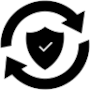
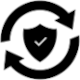
repaired flickering of screen on update

diff --git a/e_paper_utils.py b/e_paper_utils.py
@@ -7,6 +7,7 @@ import subprocess
 from PIL import Image, ImageFont
 _picdir = os.path.join(os.path.dirname(os.path.realpath(__file__)), 'pic')
 
+from string import Formatter
 import datetime
 import socket
 import urllib.request
@@ -18,6 +19,7 @@ def init_fonts(police: str = 'Font.ttc'):
 	fontSet = {}
 	fontSet['9'] = ImageFont.truetype(os.path.join(_picdir, police), 9)
 	fontSet['11'] = ImageFont.truetype(os.path.join(_picdir, police), 11)
+	fontSet['12'] = ImageFont.truetype(os.path.join(_picdir, police), 12)
 	fontSet['14'] = ImageFont.truetype(os.path.join(_picdir, police), 14)
 	fontSet['16'] = ImageFont.truetype(os.path.join(_picdir, police), 16)
 	fontSet['18'] = ImageFont.truetype(os.path.join(_picdir, police), 18)
@@ -40,7 +42,7 @@ def init_icon_set():
 	iconSet['cpu'] = Image.open(os.path.join(_picdir, 'cpu.png'))
 	iconSet['memory'] = Image.open(os.path.join(_picdir, 'memory.png'))
 	iconSet['uptime'] = Image.open(os.path.join(_picdir, 'uptime.png'))
-	iconSet['security_updates'] = Image.open(os.path.join(_picdir, 'security-updates2.png'))
+	iconSet['security_updates'] = Image.open(os.path.join(_picdir, 'security-updates.png'))
 	iconSet['docker'] = Image.open(os.path.join(_picdir, 'docker.png'))
 	iconSet['battery_charging'] = Image.open(os.path.join(_picdir, 'battery-charging.png'))
 	iconSet['battery_charged'] = Image.open(os.path.join(_picdir, 'battery-charged.png'))
@@ -80,7 +82,10 @@ def get_external_ip():
 	return urllib.request.urlopen('https://ident.me').read().decode('utf8')
 
 def get_uptime():
-	return str(datetime.timedelta(seconds=int(float(open('/proc/uptime').read().split()[0]))))
+	uptime = int(float(open('/proc/uptime').read().split()[0]))
+	week_days = strfdelta(uptime, '{W}w {D}d', 's')
+	time = strfdelta(uptime, '{D}d {H}:{M:02}:{S:02}', 's').split(' ')[1]
+	return week_days, time
 
 def get_update_count():
 	upgrades = subprocess.run(['apt', 'list', '--upgradable'], stderr=subprocess.DEVNULL, stdout=subprocess.PIPE)
@@ -89,3 +94,50 @@ def get_update_count():
 def get_docker_containers_count():
 	docker_containers = docker.from_env().containers
 	return len(docker_containers.list(filters={'status':'running'}))
+
+def strfdelta(tdelta, fmt='{D:02}d {H:02}h {M:02}m {S:02}s', inputtype='timedelta'):
+    """Convert a datetime.timedelta object or a regular number to a custom-
+    formatted string, just like the stftime() method does for datetime.datetime
+    objects.
+
+    The fmt argument allows custom formatting to be specified.  Fields can 
+    include seconds, minutes, hours, days, and weeks.  Each field is optional.
+
+    Some examples:
+        '{D:02}d {H:02}h {M:02}m {S:02}s' --> '05d 08h 04m 02s' (default)
+        '{W}w {D}d {H}:{M:02}:{S:02}'     --> '4w 5d 8:04:02'
+        '{D:2}d {H:2}:{M:02}:{S:02}'      --> ' 5d  8:04:02'
+        '{H}h {S}s'                       --> '72h 800s'
+
+    The inputtype argument allows tdelta to be a regular number instead of the  
+    default, which is a datetime.timedelta object.  Valid inputtype strings: 
+        's', 'seconds', 
+        'm', 'minutes', 
+        'h', 'hours', 
+        'd', 'days', 
+        'w', 'weeks'
+    """
+
+    # Convert tdelta to integer seconds.
+    if inputtype == 'timedelta':
+        remainder = int(tdelta.total_seconds())
+    elif inputtype in ['s', 'seconds']:
+        remainder = int(tdelta)
+    elif inputtype in ['m', 'minutes']:
+        remainder = int(tdelta)*60
+    elif inputtype in ['h', 'hours']:
+        remainder = int(tdelta)*3600
+    elif inputtype in ['d', 'days']:
+        remainder = int(tdelta)*86400
+    elif inputtype in ['w', 'weeks']:
+        remainder = int(tdelta)*604800
+
+    f = Formatter()
+    desired_fields = [field_tuple[1] for field_tuple in f.parse(fmt)]
+    possible_fields = ('W', 'D', 'H', 'M', 'S')
+    constants = {'W': 604800, 'D': 86400, 'H': 3600, 'M': 60, 'S': 1}
+    values = {}
+    for field in possible_fields:
+        if field in desired_fields and field in constants:
+            values[field], remainder = divmod(remainder, constants[field])
+    return f.format(fmt, **values)

diff --git a/e-paper.py b/e-paper.py
@@ -36,11 +36,11 @@ def update_display(epd, image: Image, draw: ImageDraw, rr: RedReactor):
 	draw.line((240, 0, 240, 240), fill = 0)
 	draw.line((0, 90, 360, 90), fill = 0)
 	draw.line((120, 90, 120, 240), fill = 0)
-	image.paste(icons['home'], (10, 3))
-	draw.text((54, 12), get_interal_ip(), font = fonts['20'], fill = 0)
+	image.paste(icons['home'], (5, 3))
+	draw.text((50, 8), get_interal_ip(), font = fonts['26'], fill = 0)
 	
-	image.paste(icons['web'], (10, 48))
-	draw.text((54, 55), get_external_ip(), font = fonts['20'], fill = 0)
+	image.paste(icons['web'], (5, 45))
+	draw.text((50, 48), get_external_ip(), font = fonts['26'], fill = 0)
 
 	battery_icon = None
 	match rr.battery_status:
@@ -63,24 +63,26 @@ def update_display(epd, image: Image, draw: ImageDraw, rr: RedReactor):
 	charge = "{:4} %".format(rr.battery_charge)
 	draw.text((254, 50), charge, font = fonts['30'], fill = 0)
 
-	image.paste(icons['uptime'], (15, 95))
-	draw.text((50, 100), get_uptime(), font = fonts['18'], fill = 0)
+	image.paste(icons['uptime'], (5, 97))
+	wd, time = get_uptime()
+	draw.text((40, 93), wd, font = fonts['18'], fill = 0)
+	draw.text((40, 111), time, font = fonts['12'], fill = 0)
 	
-	image.paste(icons['memory'], (15, 134))
+	image.paste(icons['memory'], (5, 134))
 	total_ram, ram_used, percent_ram = get_ram_info()
-	draw.text((50, 132), "{:3} %".format(percent_ram), font = fonts['18'], fill = 0)
-	draw.text((50, 150), "({}B/{}B)".format(ram_used, total_ram), font = fonts['11'], fill = 0)
+	draw.text((40, 132), "{:3} %".format(percent_ram), font = fonts['18'], fill = 0)
+	draw.text((40, 150), "({}B/{}B)".format(ram_used, total_ram), font = fonts['11'], fill = 0)
 	
-	image.paste(icons['cpu'], (15, 172))
-	draw.text((50, 175), "{:3} %".format(get_cpu_usage()), font = fonts['18'], fill = 0)
+	image.paste(icons['cpu'], (5, 172))
+	draw.text((40, 175), "{:3} %".format(get_cpu_usage()), font = fonts['18'], fill = 0)
 	
-	image.paste(icons['disk'], (18, 209))
+	image.paste(icons['disk'], (8, 209))
 	disk_total, disk_used, disk_percent = get_disk_usage()
-	draw.text((50, 206), "{:3} %".format(disk_percent), font = fonts['18'], fill = 0)
-	draw.text((50, 224), "({}B/{}B)".format(disk_used, disk_total), font = fonts['11'], fill = 0)
+	draw.text((40, 206), "{:3} %".format(disk_percent), font = fonts['18'], fill = 0)
+	draw.text((40, 224), "({}B/{}B)".format(disk_used, disk_total), font = fonts['11'], fill = 0)
 	
-	image.paste(icons['security_updates'], (145, 105))
-	draw.text((158, 185), "{:3}".format(get_update_count()), font = fonts['30'], fill = 0)
+	image.paste(icons['security_updates'], (140, 105))
+	draw.text((155, 185), "{:3}".format(get_update_count()), font = fonts['30'], fill = 0)
 	draw.text((150, 215), "updates", font = fonts['18'], fill = 0)
 	
 	image.paste(icons['docker'], (260, 110))
@@ -114,8 +116,8 @@ if __name__ == '__main__':
 	epd = epd3in52.EPD()
 	epd.init()
 	epd.display_NUM(epd.WHITE)
-	# epd.lut_GC()
-	# epd.refresh()
+	epd.lut_GC()
+	epd.refresh()
 
 	epd.send_command(0x50)
 	epd.send_data(0x17)
@@ -126,7 +128,7 @@ if __name__ == '__main__':
 		update_display(epd, image, draw ,rr)
 		
 		epd.display(epd.getbuffer(image.transpose(Image.Transpose.ROTATE_180)))
-		epd.lut_GC()
+		epd.lut_DU()
 		epd.refresh()
 		
 		exit_event.wait(report_interval)
